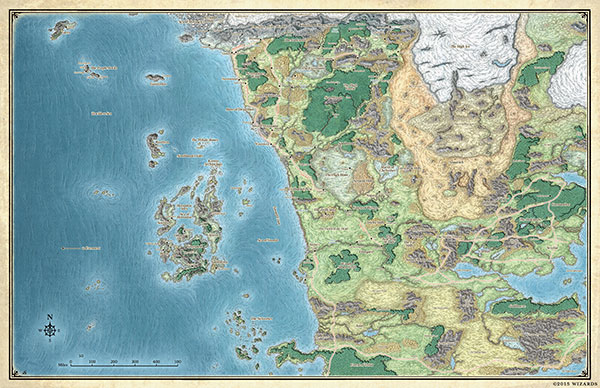
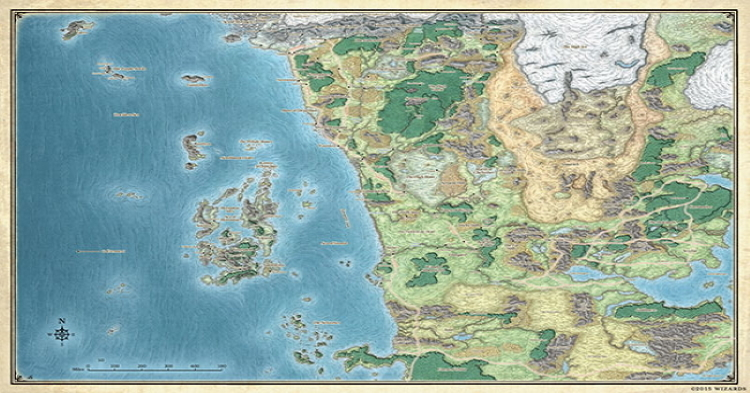
Resized the map and placed it in the background

diff --git a/DNDTools/MainWindow.xaml b/DNDTools/MainWindow.xaml
@@ -7,12 +7,9 @@
         mc:Ignorable="d"
         Title="MainWindow" Height="458" Width="818">
     <Grid Margin="0,0,0,0">
-        <TextBox Name="Chatbox" HorizontalAlignment="Left" Height="23" TextWrapping="Wrap" Text="TextBox" VerticalAlignment="Top" Width="634" Margin="0,396,0,0"/>
-
-        <Label Content="Map goes in the background&#xD;&#xA;Remove Label when done" HorizontalAlignment="Left" Height="45" Margin="24,22,0,0" VerticalAlignment="Top" Width="184"/>
-        <Button Content="Options&#xA;" HorizontalAlignment="Left" VerticalAlignment="Top" Width="53" Margin="0,255,0,0" Height="28"/>
-        <Button Name="btnDice" Content="&#xA;Dice Roll&#xA;" HorizontalAlignment="Left" VerticalAlignment="Top" Width="125" Margin="0,283,0,0" Height="51" Click="ButtonDiceRoll_Click"/>
-        <ScrollViewer Name="Chatlog" HorizontalAlignment="Left" Height="62" Margin="0,334,0,0" VerticalAlignment="Top" Width="634" >
+        <Image HorizontalAlignment="Left" Height="334" VerticalAlignment="Top" Width="639" Source="20151117_Sword-Coast-Map.jpg"/>
+        <TextBox x:Name="Chatbox" HorizontalAlignment="Left" Height="23" TextWrapping="Wrap" Text="TextBox" VerticalAlignment="Top" Width="634" Margin="0,396,0,0"/>
+        <ScrollViewer x:Name="Chatlog" HorizontalAlignment="Left" Height="62" Margin="0,334,0,0" VerticalAlignment="Top" Width="634" >
             <Border BorderBrush="Black" BorderThickness="1" Height="62" Width="634"/>
         </ScrollViewer>
         <Grid HorizontalAlignment="Left" Height="422" VerticalAlignment="Top" Width="171" Margin="639,0,0,0">
@@ -32,6 +29,7 @@
                 </Label>
             </Border>
         </Grid>
-        <Image HorizontalAlignment="Left" Height="169" Margin="68,67,0,0" VerticalAlignment="Top" Width="424" Source="20151117_Sword-Coast-Map.jpg"/>
+        <Button x:Name="btnDice" Content="&#xA;Dice Roll&#xA;" HorizontalAlignment="Left" VerticalAlignment="Top" Width="125" Margin="0,283,0,0" Height="51" Click="ButtonDiceRoll_Click"/>
+        <Button Content="Options&#xA;" HorizontalAlignment="Left" VerticalAlignment="Top" Width="53" Margin="0,255,0,0" Height="28"/>
     </Grid>
 </Window>
